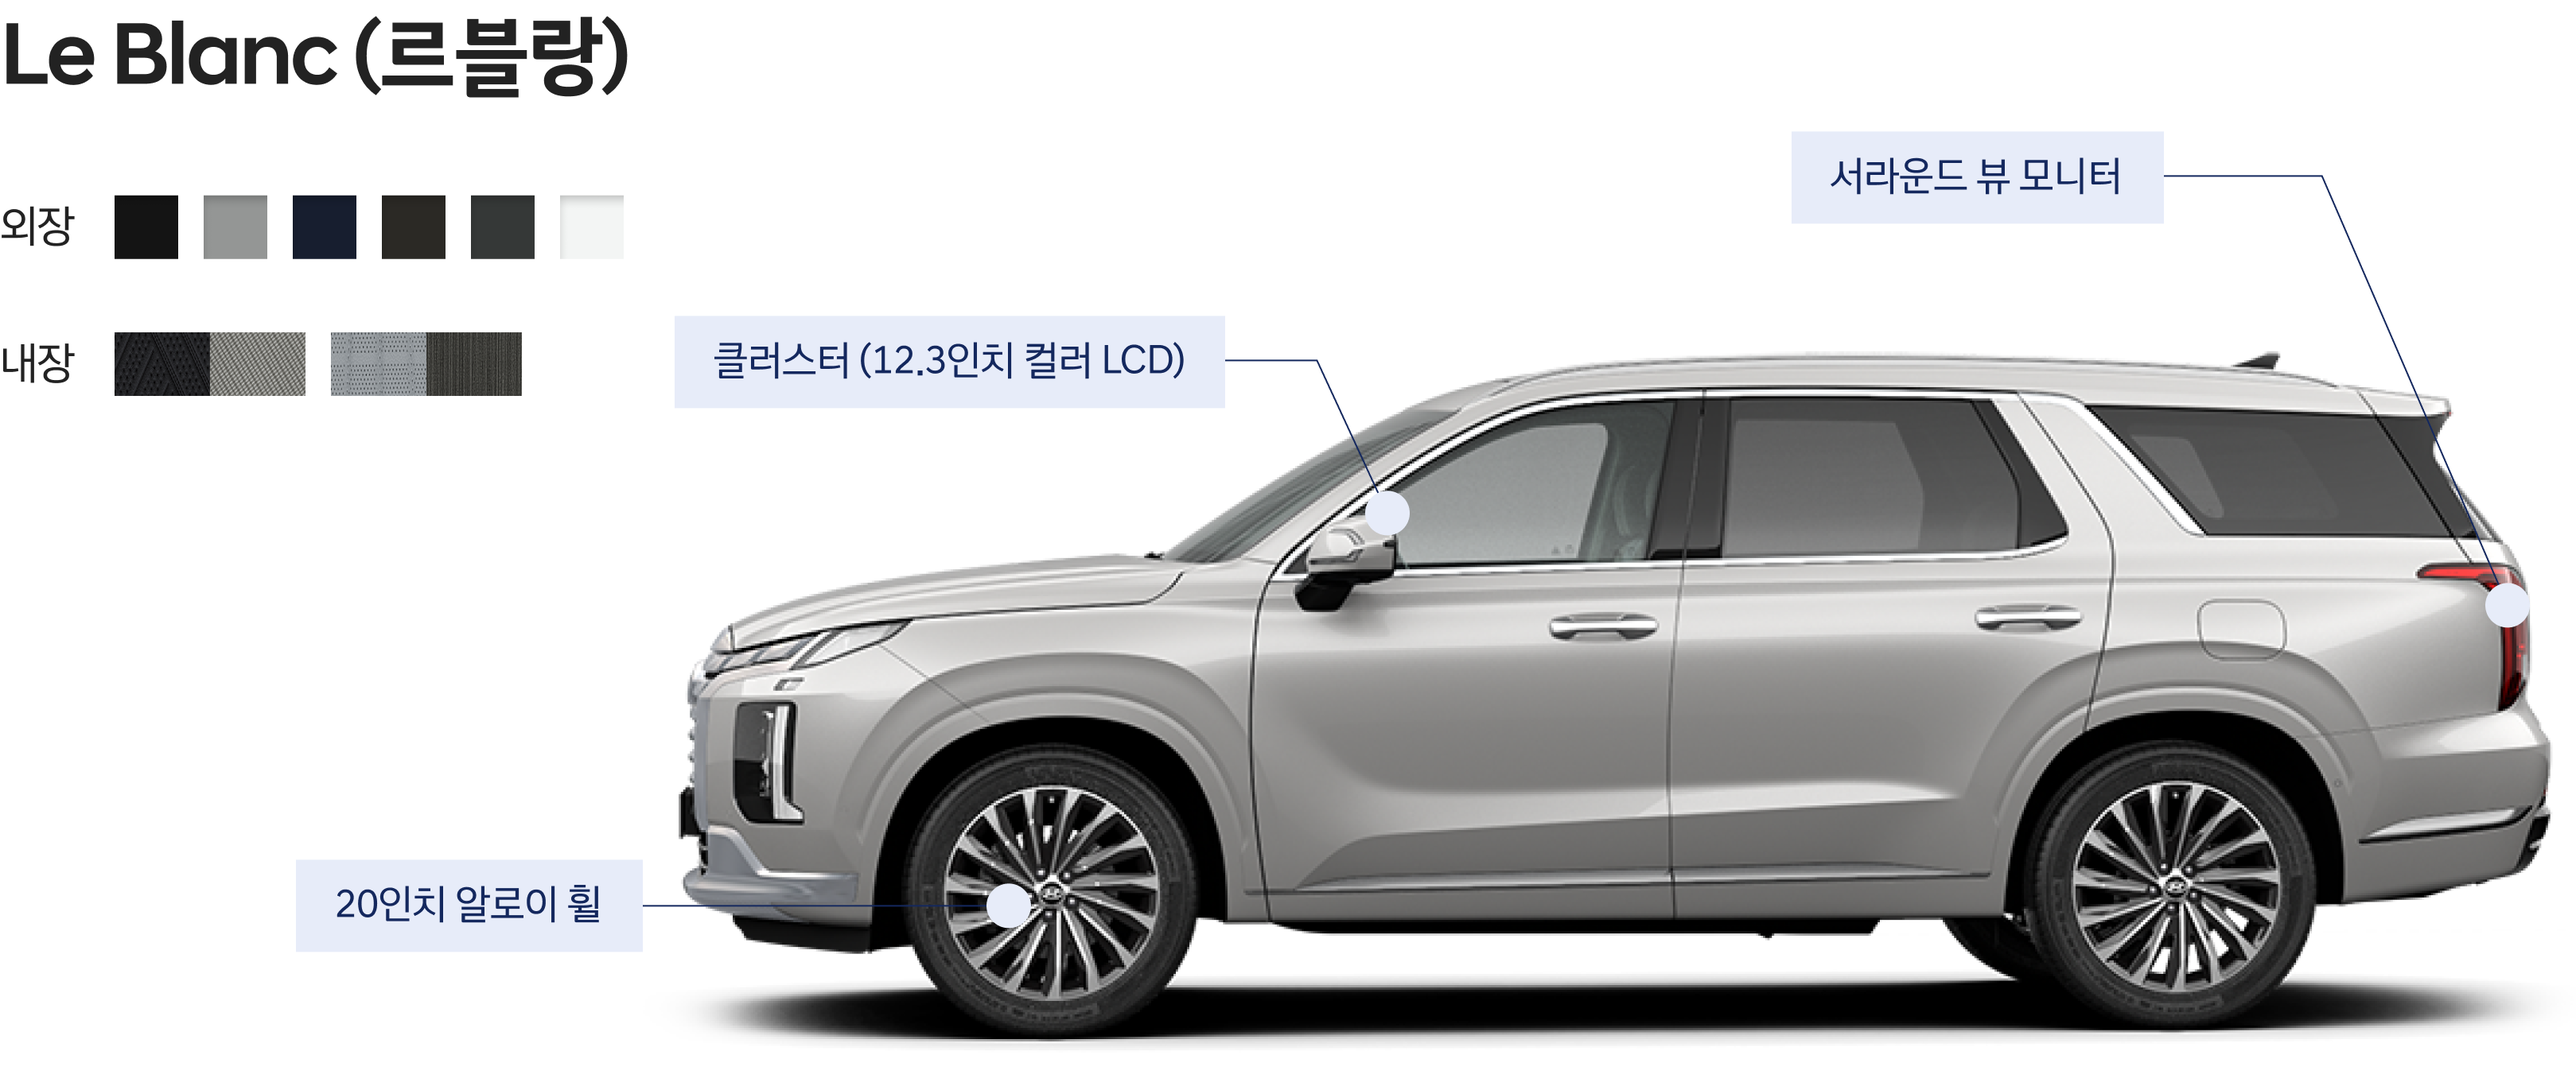
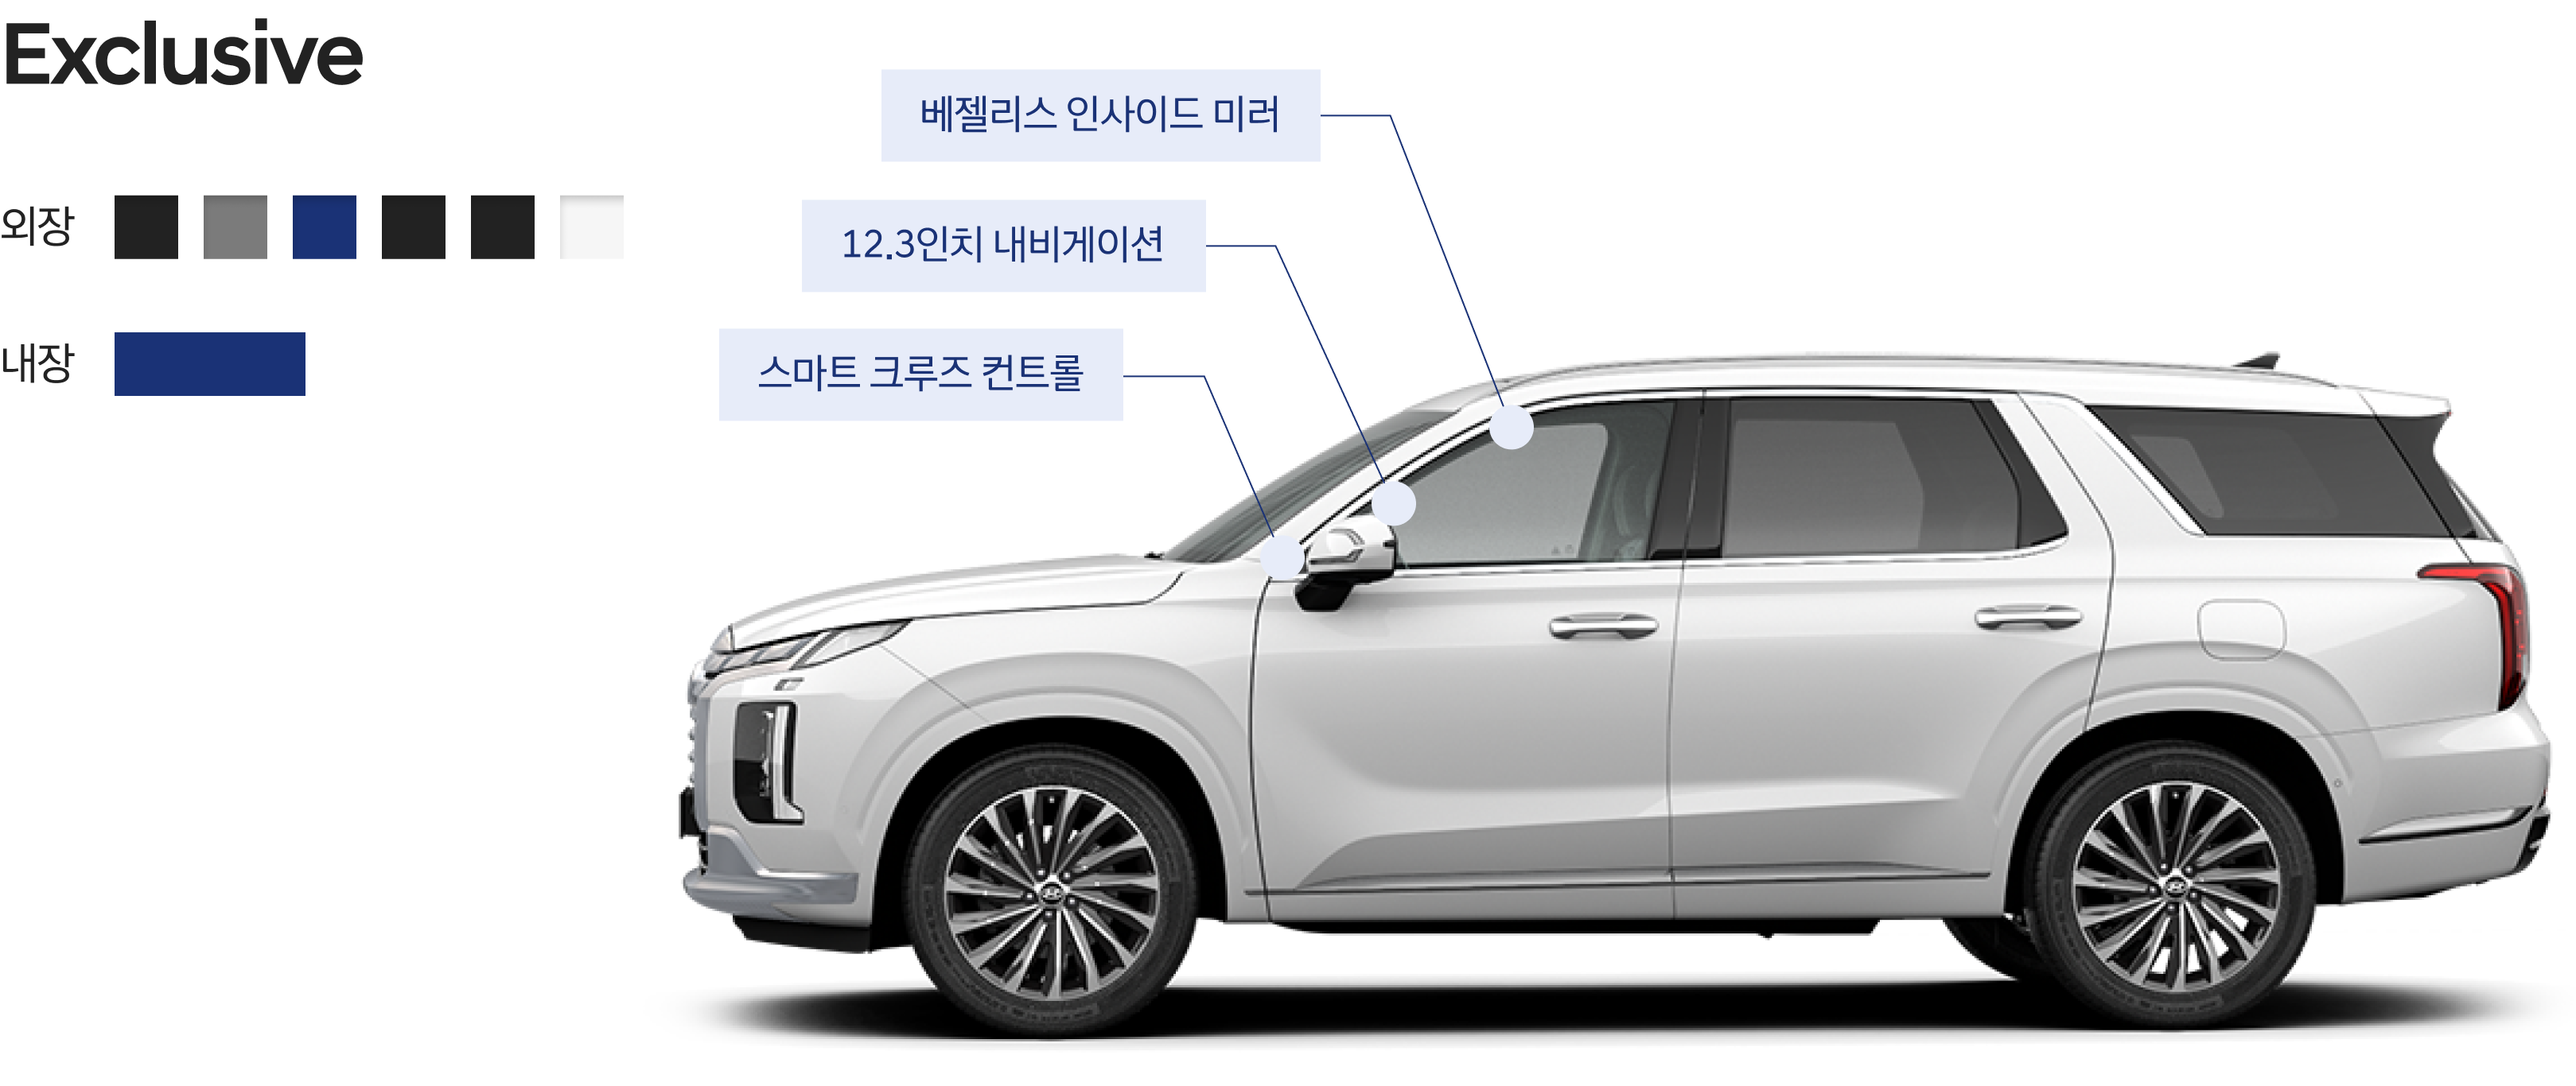
[Feature] 트림 뷰 구성 (#139)
* chore: 트림 테스트 이미지 추가

* feat: 선택된 트림에 따라 이미지 로드

diff --git a/FE-MyCarMaster/src/contexts/TrimContext.tsx b/FE-MyCarMaster/src/contexts/TrimContext.tsx
@@ -1,4 +1,9 @@
 import { useReducer, createContext, useContext } from "react";
+import Exclusive from "../assets/images/Exclusive.png";
+import Leblanc from "../assets/images/LeBlanc.png";
+import Prestige from "../assets/images/Prestige.png";
+import Calligraphy from "../assets/images/Calligraphy.png";
+// 백엔드 API 나오면 실제 imgUrl로 대체
 
 type Trims = {
   id: number;
@@ -31,7 +36,7 @@ const initialTrimState: TrimState = {
       description: "실용적이고 기본적인 기능을 갖춘 베이직 트림",
       price: 40440000,
       ratio: 22,
-      imgUrl: "",
+      imgUrl: Exclusive,
     },
     {
       id: 1,
@@ -39,7 +44,7 @@ const initialTrimState: TrimState = {
       description: "실용적이고 기본적인 기능을 갖춘 베이직 트림",
       price: 43460000,
       ratio: 0,
-      imgUrl: "",
+      imgUrl: Leblanc,
     },
     {
       id: 2,
@@ -47,7 +52,7 @@ const initialTrimState: TrimState = {
       description: "실용적이고 기본적인 기능을 갖춘 베이직 트림",
       price: 47720000,
       ratio: 22,
-      imgUrl: "",
+      imgUrl: Prestige,
     },
     {
       id: 3,
@@ -55,7 +60,7 @@ const initialTrimState: TrimState = {
       description: "실용적이고 기본적인 기능을 갖춘 베이직 트림",
       price: 52540000,
       ratio: 22,
-      imgUrl: "",
+      imgUrl: Calligraphy,
     },
   ],
 };

diff --git a/FE-MyCarMaster/src/components/Main/view/TrimContent.tsx b/FE-MyCarMaster/src/components/Main/view/TrimContent.tsx
@@ -1,14 +1,10 @@
 import styled from "styled-components";
-
-// dummy data
-import exclusive from "../../../assets/images/exclusive.png";
+import { useTrimState } from "../../../contexts/TrimContext";
 
 function TrimContent() {
-  return (
-    <>
-      <TrimImage src={exclusive} />
-    </>
-  );
+  const { trimId, trimList } = useTrimState();
+
+  return <TrimImage src={trimList[trimId].imgUrl} />;
 }
 
 const TrimImage = styled.img`
